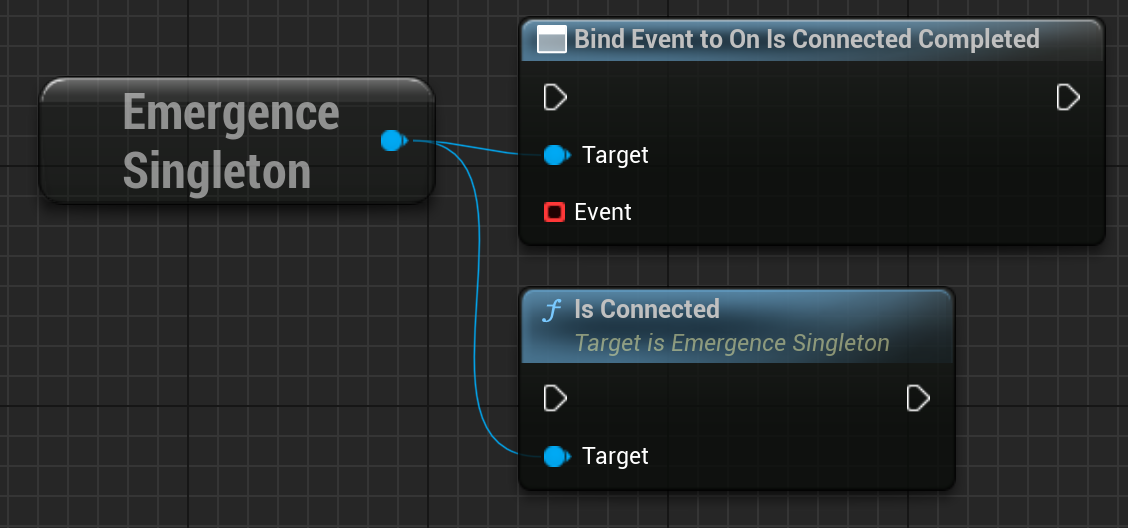
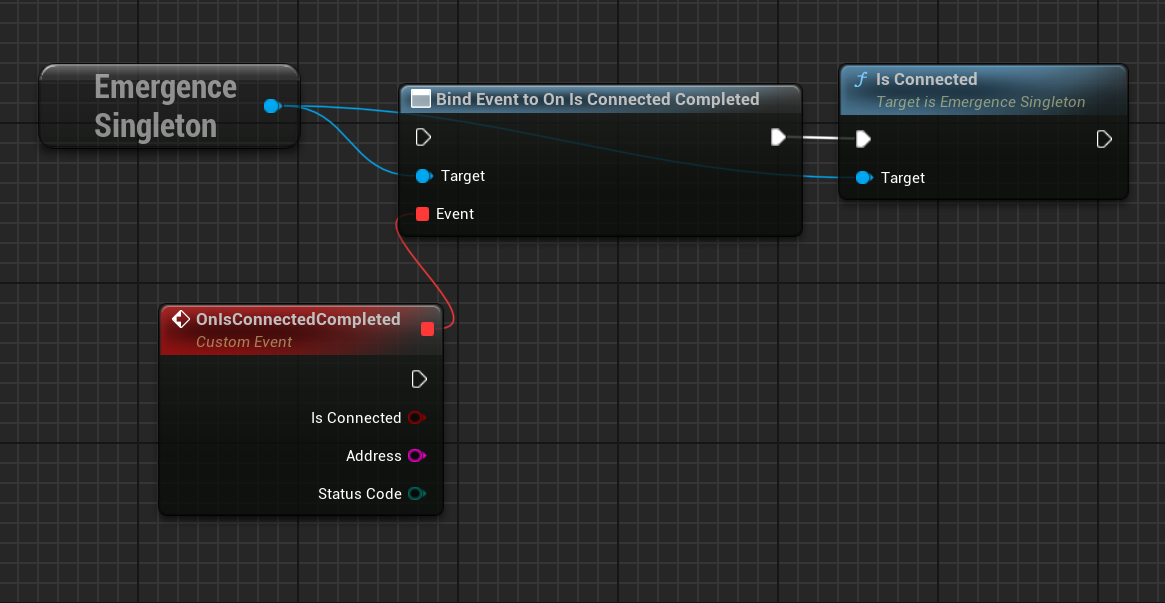
Updates for Singleton page

diff --git a/Unreal/APIs/EmergenceBlockchainWallet/EmergenceSingleton.md b/Unreal/APIs/EmergenceBlockchainWallet/EmergenceSingleton.md
@@ -45,6 +45,12 @@ Event Dispatcher (dynamic multicast delegate) called when the user has done the 
 
 `FOnLoginFinished OnLoginFinished`
 
+### Outputs 
+
+| - | - | - |
+|Type|Name|Description|
+|EErrorCode|StatusCode|Any erorrs that occurred during the login process. The errors that can occur depend on the type of login.|
+
 ## OnSessionEnded
 
 Event Dispatcher (dynamic multicast delegate) called when a WalletConnect / Futureverse Custodial session ends (for example, the user logs out).
@@ -63,7 +69,24 @@ Event Dispatcher (dynamic multicast delegate) checks if a walletconnect session 
 
 `FOnIsConnectedCompleted OnIsConnectedCompleted`
 
+### Outputs 
+
+| - | - | - |
+|Type|Name|Description|
+|bool|IsConnected|If the user is connected with WalletConnect.|
+|FString|Address|The WalletConnect'd user's address.|
+|EErrorCode|StatusCode|Any erorrs that occurred.|
+
 ## KillWalletConnectSession
 
 Kills the walletconnect session. Setting TrackRequest to false will mean OnSessionEnded will never fire, and this request won't be added to ActiveRequests (good to prevent this getting premptively killed going from PIE back to Editor.
 
+![](KillWalletConnectSession.PNG)
+
+`void KillWalletConnectSession(bool TrackRequest = true)`
+
+### Inputs
+
+| - | - | - |
+|Type|Name|Description|
+|bool|TrackRequest|Setting TrackRequest to false will mean OnSessionEnded will never fire, and this request won't be added to ActiveRequests (good to prevent this getting premptively killed going from PIE back to Editor.|
